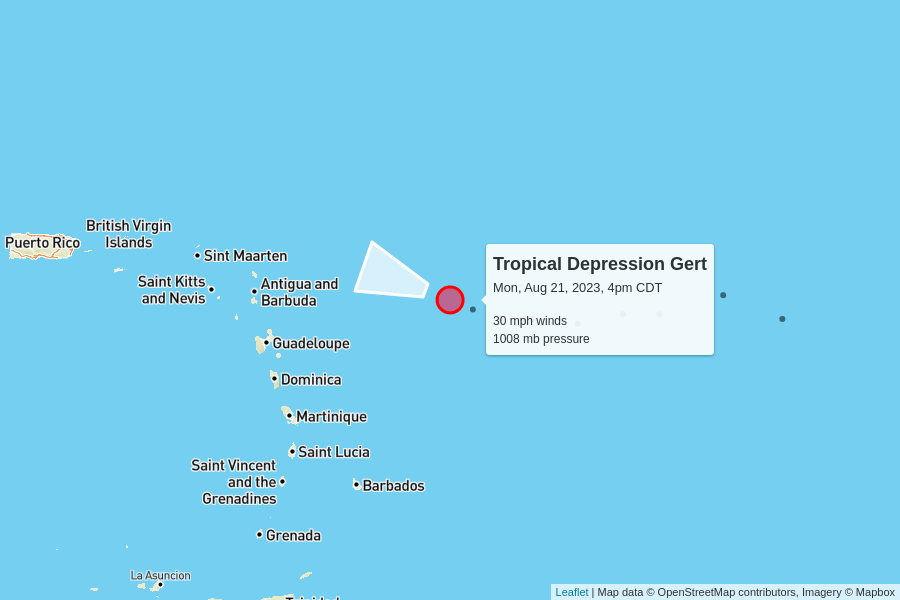
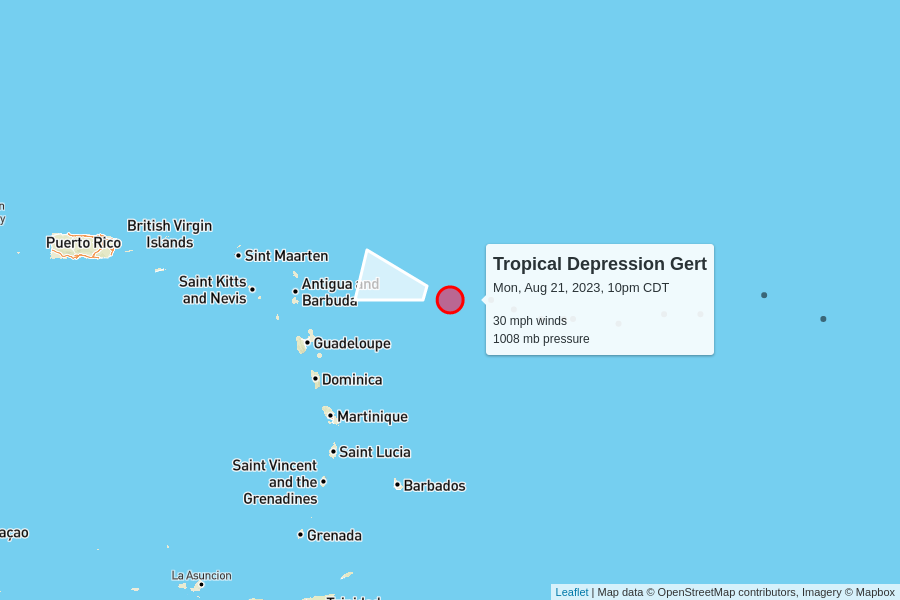
automatic update

diff --git a/docs/index.html b/docs/index.html
@@ -99,8 +99,52 @@
       <tr>
         <td colspan="6" class="storm category-0" >
           <h2>
+            Tropical Storm Franklin
+            <p class="updated">last updated <span data-time>2023-08-22T03:00:00.000Z</span></p>
+          </h2>
+        </td>
+      </tr>
+      
+      <tr>
+        <th class="spacer"></th>
+        <th>wind speed</th>
+        <th>central pressure</th>
+        <th>movement</th>
+        <th>data (CSV)</th>
+        <th>National Hurricane Center</th>
+      </tr>
+      <tr>
+        <td class="spacer"></td>
+        <td>50 mph</td>
+        <td>1002 mb</td>
+        <td>
+          5 mph to the north-northwest
+          <br/>
+          <span style="display: inline-block; font-size: 1.5em; transform: rotate(335deg);">↑</span>
+        </td>
+        <td><a href="https://raw.githubusercontent.com/mgwalker/atlantic-hurricanes/main/data/csv/AL082023.csv">AL082023.csv</a></td>
+        <td><a href="https://www.nhc.noaa.gov/archive/2023/FRANKLIN.shtml?">NHC advisories</a></td>
+      </tr>
+      <tr id="storm_AL082023" >
+        <td class="spacer">
+        <td colspan="5">
+          <figure>
+            <img src="AL082023.png">
+            <figcaption>
+              Map data &copy; <a href="https://www.openstreetmap.org/copyright">OpenStreetMap</a> contributors,
+              Imagery &copy; <a href="https://www.mapbox.com/">Mapbox</a> |
+              <a href="https://www.mapbox.com/map-feedback/" target="_blank">Improve this map</a>
+            </figcaption>
+          </figure>
+        </td>
+      </tr>
+      
+
+      <tr>
+        <td colspan="6" class="storm category-0" >
+          <h2>
             Tropical Depression Nine
-            <p class="updated">last updated <span data-time>2023-08-22T00:00:00.000Z</span></p>
+            <p class="updated">last updated <span data-time>2023-08-22T03:00:00.000Z</span></p>
           </h2>
         </td>
       </tr>
@@ -118,9 +162,9 @@
         <td>35 mph</td>
         <td>1008 mb</td>
         <td>
-          18 mph to the west
+          18 mph to the west-northwest
           <br/>
-          <span style="display: inline-block; font-size: 1.5em; transform: rotate(275deg);">↑</span>
+          <span style="display: inline-block; font-size: 1.5em; transform: rotate(285deg);">↑</span>
         </td>
         <td><a href="https://raw.githubusercontent.com/mgwalker/atlantic-hurricanes/main/data/csv/AL092023.csv">AL092023.csv</a></td>
         <td><a href="https://www.nhc.noaa.gov/archive/2023/NINE.shtml?">NHC advisories</a></td>
@@ -144,7 +188,7 @@
         <td colspan="6" class="storm category-0" >
           <h2>
             Tropical Depression Gert
-            <p class="updated">last updated <span data-time>2023-08-21T21:00:00.000Z</span></p>
+            <p class="updated">last updated <span data-time>2023-08-22T03:00:00.000Z</span></p>
           </h2>
         </td>
       </tr>
@@ -162,9 +206,9 @@
         <td>30 mph</td>
         <td>1008 mb</td>
         <td>
-          7 mph to the west-northwest
+          9 mph to the west-northwest
           <br/>
-          <span style="display: inline-block; font-size: 1.5em; transform: rotate(290deg);">↑</span>
+          <span style="display: inline-block; font-size: 1.5em; transform: rotate(285deg);">↑</span>
         </td>
         <td><a href="https://raw.githubusercontent.com/mgwalker/atlantic-hurricanes/main/data/csv/AL062023.csv">AL062023.csv</a></td>
         <td><a href="https://www.nhc.noaa.gov/archive/2023/GERT.shtml?">NHC advisories</a></td>
@@ -174,50 +218,6 @@
         <td colspan="5">
           <figure>
             <img src="AL062023.png">
-            <figcaption>
-              Map data &copy; <a href="https://www.openstreetmap.org/copyright">OpenStreetMap</a> contributors,
-              Imagery &copy; <a href="https://www.mapbox.com/">Mapbox</a> |
-              <a href="https://www.mapbox.com/map-feedback/" target="_blank">Improve this map</a>
-            </figcaption>
-          </figure>
-        </td>
-      </tr>
-      
-
-      <tr>
-        <td colspan="6" class="storm category-0" >
-          <h2>
-            Tropical Storm Franklin
-            <p class="updated">last updated <span data-time>2023-08-21T21:00:00.000Z</span></p>
-          </h2>
-        </td>
-      </tr>
-      
-      <tr>
-        <th class="spacer"></th>
-        <th>wind speed</th>
-        <th>central pressure</th>
-        <th>movement</th>
-        <th>data (CSV)</th>
-        <th>National Hurricane Center</th>
-      </tr>
-      <tr>
-        <td class="spacer"></td>
-        <td>50 mph</td>
-        <td>1002 mb</td>
-        <td>
-          5 mph to the west
-          <br/>
-          <span style="display: inline-block; font-size: 1.5em; transform: rotate(265deg);">↑</span>
-        </td>
-        <td><a href="https://raw.githubusercontent.com/mgwalker/atlantic-hurricanes/main/data/csv/AL082023.csv">AL082023.csv</a></td>
-        <td><a href="https://www.nhc.noaa.gov/archive/2023/FRANKLIN.shtml?">NHC advisories</a></td>
-      </tr>
-      <tr id="storm_AL082023" >
-        <td class="spacer">
-        <td colspan="5">
-          <figure>
-            <img src="AL082023.png">
             <figcaption>
               Map data &copy; <a href="https://www.openstreetmap.org/copyright">OpenStreetMap</a> contributors,
               Imagery &copy; <a href="https://www.mapbox.com/">Mapbox</a> |
